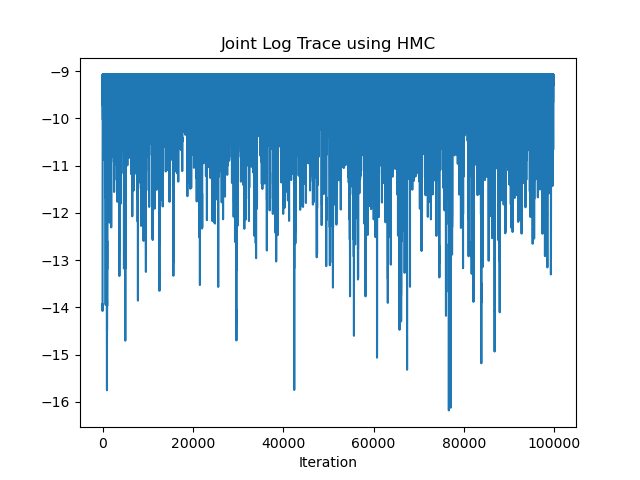
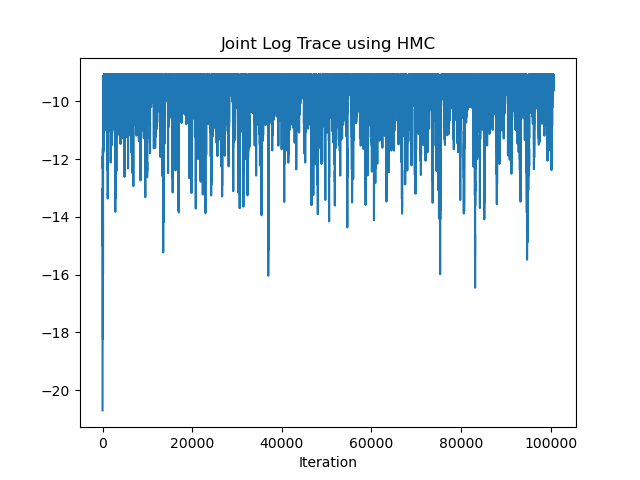
completed hw3

diff --git a/hw3/hmc_sampling.py b/hw3/hmc_sampling.py
@@ -28,46 +28,33 @@ class HMCSampler:
         m_matrix = torch.eye(len(self.sampled))
         momentum_dist = tdist.multivariate_normal.MultivariateNormal(zero_vec, m_matrix)
         u_dist = tdist.uniform.Uniform(0, 1)
-
         samples = []
         log_joints = []
-
         # Start Timer
         start = time.time()
-
         prior_samples = sample_from_priors(self.graph)
         sample = torch.tensor([prior_samples[key] for key in prior_samples if key in self.sampled])
-
         while time.time() - start < self.max_time:
             momentum = momentum_dist.sample()
             sample_new, momentum_new = self.__leapfrog(sample, momentum)
             u = u_dist.sample()
             acceptance_rate = self.__acceptance_rate(sample, sample_new, momentum, momentum_new, m_matrix)
-
             if u < acceptance_rate:
                 env = {**dict(zip(self.sampled, sample_new)), **self.observed}
                 samples.append(deterministic_eval(self.result_nodes, env).detach())
                 log_joints.append(self.__log_joint(env).detach())
                 sample = sample_new
-
             else:
                 env = {**dict(zip(self.sampled, sample)), **self.observed}
                 samples.append(deterministic_eval(self.result_nodes, env).detach())
                 log_joints.append(self.__log_joint(env).detach())
-
         return samples, log_joints
 
     def __leapfrog(self, sample, momentum):
         sample = sample.detach().clone()
         momentum = momentum - 0.5 * self.epsilon * self.__nabla_u(sample)
         for _ in range(self.num_leaps - 1):
-            # sample = sample.detach() - self.epsilon * momentum
-            # momentum = momentum - self.epsilon * self.__nabla_u(sample)
             sample, momentum = self.__leapfrog_step(sample, momentum)
-
-        # sample = sample.detach() + self.epsilon * momentum
-        # momentum = momentum - 0.5 * self.epsilon * self.__nabla_u(sample)
-        # return sample, momentum
         return self.__leapfrog_step(sample, momentum, half_step=True)
 
     def __leapfrog_step(self, sample, momentum, half_step=False):
@@ -108,7 +95,6 @@ class HMCSampler:
             if type(val) in [int, float, bool]:
                 val = torch.tensor(float(val))
             ret += dist.log_prob(val)
-
         return ret
 
 

diff --git a/hw3/tests.py b/hw3/tests.py
@@ -11,9 +11,9 @@ labels = {
 
 max_time = 600
 bins = [50, 50, 0, 0, 50]
-burnin = [3000, 0, 0, 0, 3000]
-num_leaps = [30, 30, 0, 0, 30]
-epsilon = [0.1, 0.1, 0, 0, 0.1]
+burnin = [3000, 3000, 0, 0, 3000]
+num_leaps = [30, 20, 0, 0, 20]
+epsilon = [0.1, 0.1, 0, 0, 0.001]
 
 
 for i in range(1, 6):
